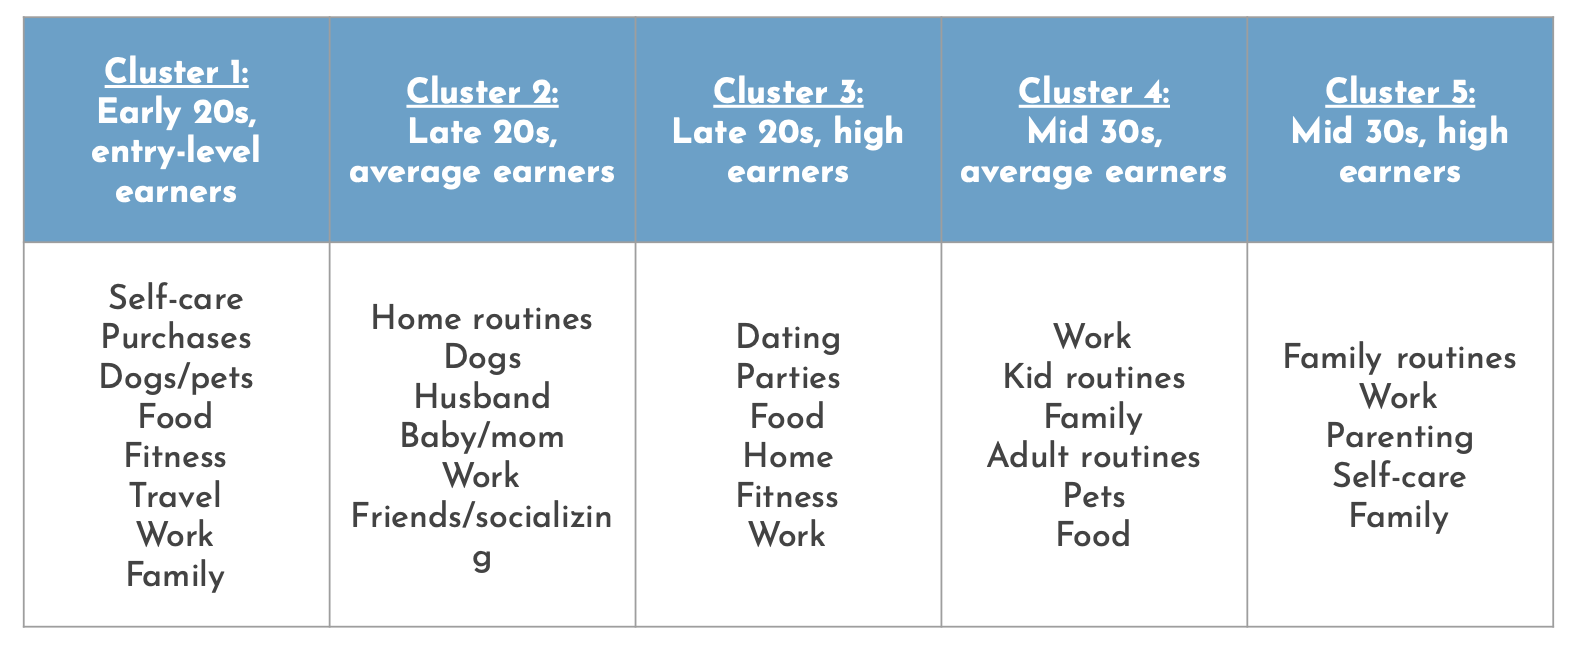
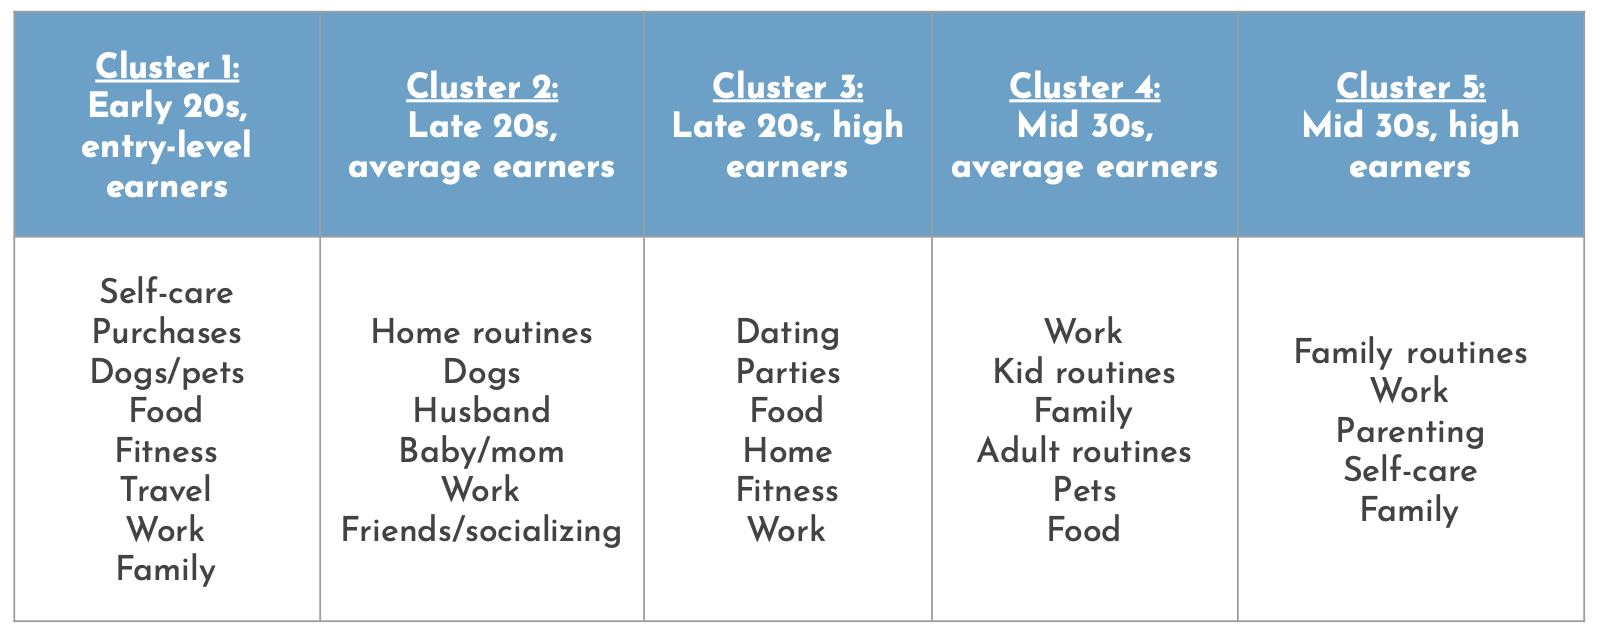
more styling changes

diff --git a/_posts/2020-08-24-Project-4-Blog.md b/_posts/2020-08-24-Project-4-Blog.md
@@ -16,18 +16,22 @@ The diarists included in my sample have an average age of 27.7 years old (althou
 
 With the data collected, I used Natural Language Processing (NLP) to analyze how millennial women spend their time and money. I then used topic modeling and clustering to identify groups of diarists and gather information about what they write about.
 
-### **Results**. 
+### **Results** 
 *Topic Modeling on All Diarists*  
 First, I performed topic modeling on all of the diarists. Through a lot of trial and error, I found topics and words that made the most sense using Non-negative Matrix Factorization (NMF) with noun part of speech tagging and Count Vectorizer.  The diary entries could be categorized into 8 topics: friends/socializing, cooking/food, work, dogs, self-care, family, husband, and baby. I thought these results made a lot of sense given that millennials are 24-39! I was eager to do further analysis and gain more insights into the different types of millennials in the diaries.
 ![Top_10_words_all_diarists]({{ site.url }}/images/top_10_all_diarists.png)
 
 *Clustering*  
-I then decided to do clustering on the diarist metadata to learn about the different types of millennials and then do topic modeling on the individual clusters to gain insight into the nuances of the daily lives of the diarists. I performed K-means clustering on the age and salary metadata and was able to break the diarists into 5 groups that made a lot of sense: early 20s entry-level earners, late 20s average earners, late 20s high earners, mid 30s average earners, and mid 30s high earners. 
-![K_means_clusters]({{ site.url }}/images/clustering.png)
+I then decided to do clustering on the diarist metadata to learn about the different types of millennials and then do topic modeling on the individual clusters to gain insight into the nuances of the daily lives of the diarists. I performed K-means clustering on the age and salary metadata and was able to break the diarists into 5 groups that made a lot of sense!
+<p align="center"> <img src="/images/clustering.png" /> </p>
+
+I identified the clusters as early 20s entry-level earners, late 20s average earners, late 20s high earners, mid 30s average earners, and mid 30s high earners.   
 ![Cluster_metadata]({{ site.url }}/images/Cluster_metadata.png)
 
-*Top Modeling on Clusters* 
-Now that I had each of my clusters, I performed additional topic modeling on them. Once again, I found the most success with Non-negative Matrix Factorization (NMF) with noun part of speech tagging and Count Vectorizer. I found some really interesting insights in the topic modeling for each of these clusters! Many of the topics the early 20s entry-level earners wrote about included self-discovery and self-care.  Comparing the late 20s clusters, the average earners wrote more about immediate family and home, while high earners wrote more about socializing and self-care. Lastly, both mid 30s clusters wrote a lot about family, but the high earners included more about self-care.  Below you’ll see a list of the top topics I identified for each of the clusters:
+*Top Modeling on Clusters*   
+Now that I had each of my clusters, I performed additional topic modeling on them. Once again, I found the most success with Non-negative Matrix Factorization (NMF) with noun part of speech tagging and Count Vectorizer. I found some really interesting insights in the topic modeling for each of these clusters! Many of the topics the early 20s entry-level earners wrote about included self-discovery and self-care.  Comparing the late 20s clusters, the average earners wrote more about immediate family and home, while high earners wrote more about socializing and self-care. Lastly, both mid 30s clusters wrote a lot about family, but the high earners included more about self-care.     
+
+Below you’ll see a list of the top topics I identified for each of the clusters:
 ![Cluster_topics]({{ site.url }}/images/Cluster_topics.png)
 
 ### **Recommender**

diff --git a/about.md b/about.md
@@ -3,7 +3,5 @@ layout: page
 title: About
 ---
 
-<p align="center">
-  <img src="/images/me.jpg" />
-</p>
+<p align="center"> <img src="/images/me.jpg" /> </p>
 I'm Lisa VanderVoort. I'm a former teacher and school administrator turned data scientist. I'm passionate about using data to tell stories and understand the world. You can find my code on [Github.](https://github.com/lvandervoort89) Please reach out with questions about my projects.
